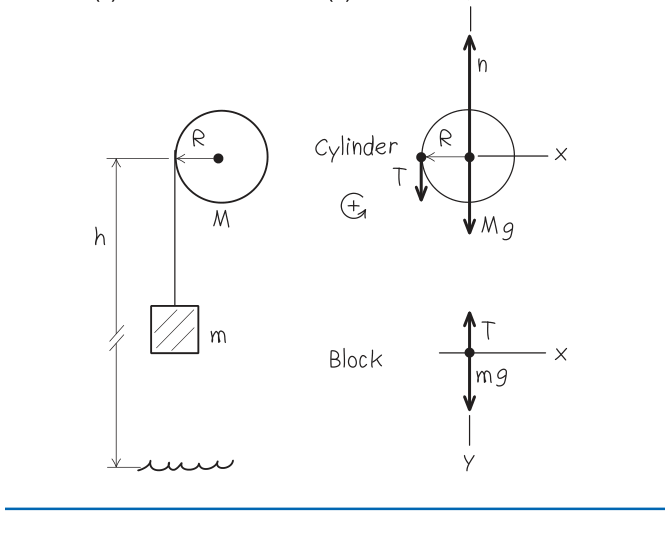
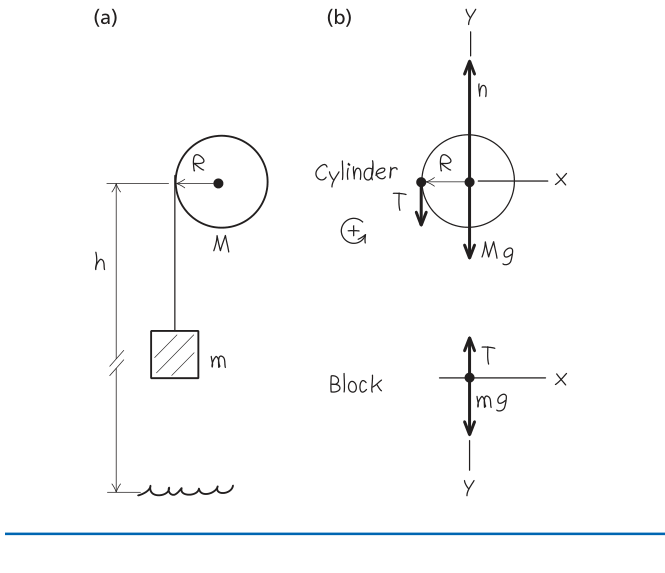
content: restore two mechanics frames and clarify active physics references

diff --git a/raw_materials/physics/verify_review_fixes_20261028.py b/raw_materials/physics/verify_review_fixes_20261028.py
@@ -1,0 +1,22 @@
+"""Verify two original chapter10 crops without modifying public files."""
+from pathlib import Path
+import ast,hashlib
+import pymupdf
+from PIL import Image
+ROOT=Path(__file__).resolve().parents[2]
+tree=ast.parse((ROOT/'scripts/prepare-physics1-10-theory-a-assets.py').read_text('utf8'))
+values={}
+for node in tree.body:
+ if isinstance(node,ast.Assign):
+  for target in node.targets:
+   if isinstance(target,ast.Name)and target.id in['CROPS','SCALE']:values[target.id]=ast.literal_eval(node.value)
+pdf=pymupdf.open(ROOT/'raw_materials/physics/source/young-freedman-15.pdf')
+expected={'a-hinh-10-10':(328,(34,96,300,325)),'a-hinh-10-18':(332,(310,427,576,615))}
+for name,want in expected.items():
+ page,box=values['CROPS'][name];assert(page,box)==want
+ pix=pdf[page-1].get_pixmap(matrix=pymupdf.Matrix(values['SCALE'],values['SCALE']),clip=pymupdf.Rect(box),alpha=False)
+ p=ROOT/'docs/vat-ly-1/bai-giang/img/young-10'/(name+'.png')
+ im=Image.open(p).convert('RGB')
+ assert im.size==(pix.width,pix.height)and im.tobytes()==pix.samples,name
+ print('PASS exact originalPDF raster',name,hashlib.sha256(p.read_bytes()).hexdigest())
+print('Scope: Two original rasters only. Complete framing visually reviewed separately; no wholecourse proof.')

diff --git a/scripts/prepare-physics1-10-theory-a-assets.py b/scripts/prepare-physics1-10-theory-a-assets.py
@@ -16,7 +16,7 @@ CROPS={
  'a-hinh-10-07':(326,(34,128,195,234)),
  'a-hinh-10-08':(326,(33,329,195,485)),
  'a-hinh-10-09':(327,(78,391,615,530)),
- 'a-hinh-10-10':(328,(34,106,300,325)),
+ 'a-hinh-10-10':(328,(34,96,300,325)),
  'a-hinh-10-11':(328,(33,510,195,751)),
  'a-hinh-10-12':(329,(450,182,615,360)),
  'a-hat-phong':(329,(452,575,648,743)),
@@ -25,7 +25,7 @@ CROPS={
  'a-hinh-10-15':(331,(78,79,338,238)),
  'a-hinh-10-16':(331,(78,510,338,590)),
  'a-hinh-10-17':(332,(0,206,194,351)),
- 'a-hinh-10-18':(332,(310,438,576,615)),
+ 'a-hinh-10-18':(332,(310,427,576,615)),
  'a-hinh-10-19':(333,(78,270,338,407)),
  'a-hinh-10-20':(333,(78,582,442,750)),
  'a-hinh-10-21':(334,(34,465,195,710)),

diff --git a/raw_materials/physics/reviews/confirmed-review-fixes-20261028.md b/raw_materials/physics/reviews/confirmed-review-fixes-20261028.md
@@ -1,0 +1,9 @@
+# Các sửa đổi đã xác minh trong lượt rà khóa học
+
+Hai hình 10.10 và 10.18 được mở rộng khung để khôi phục nhãn các phần và nhãn trục phía trên. Ảnh xuất trực tiếp từ PDF, không vẽ đè hay thay thế hình gốc. Bộ kiểm Python đối chiếu toàn bộ raster với trang nguồn và vùng cắt đã khai báo. Hình 10.10 có một pixel khử răng cưa ở ranh giới vùng cắt cũ thay đổi khi kết xuất lại, được ghi rõ trong JSON.
+
+Chú thích của sơ đồ thanh dẫn nhiệt ghép nối tiếp ở chương 17 đã có trong mô-đun nhưng chưa được đăng ký vào bảng chú thích hoạt động. Đã thêm đăng ký và kiểm tra hai dòng chú thích xuất hiện đúng một lần qua bộ dựng Markdown thật.
+
+Cheatsheet photon đổi tên mục “Tốc độ photon” thành “Suất phát photon và mật độ thông lượng photon”, kèm định nghĩa và đơn vị sáu đại lượng. Hai công thức đếm photon giữ nguyên. Cheatsheet thuyết tương đối làm rõ ký hiệu khoảng bất biến J và các tọa độ ngang trong biến đổi ngược.
+
+Kiểm tra lại 15 trường hợp Cheatsheet/chú thích và 10 trường hợp hình ở năm chiều rộng đạt. Đây là kiểm tra thành phần với CSS và bộ dựng thật, chưa phải kiểm tra bản công khai. Không suy rộng kết quả này thành xác nhận đầy đủ nội dung toàn khóa. Các đề xuất cắt bỏ tiêu đề hình gốc hoặc gắn nhãn của hình bên cạnh đã bị loại sau khi đối chiếu.
